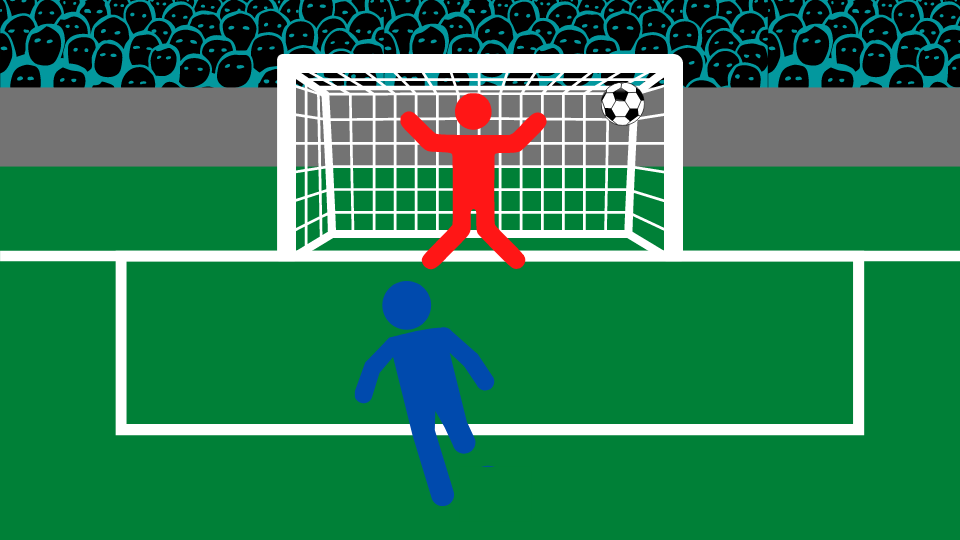
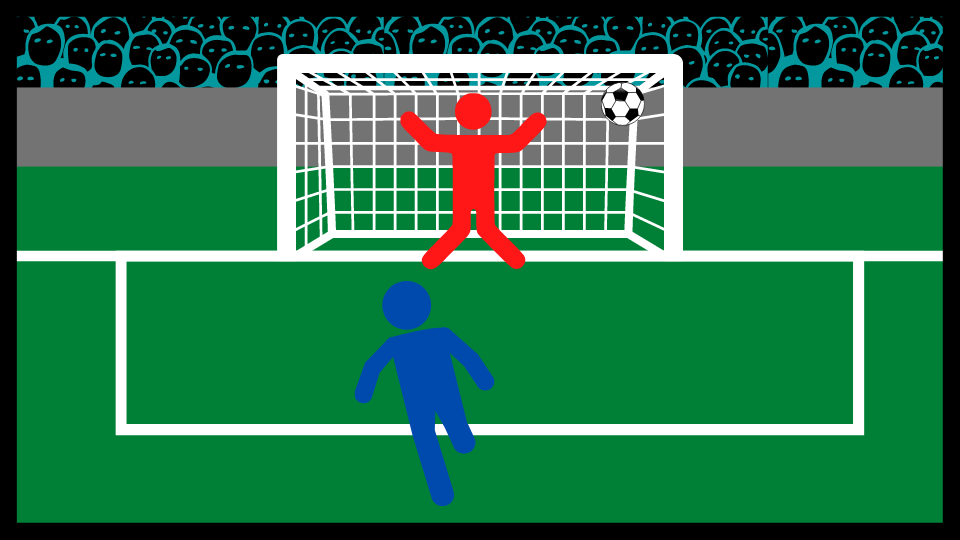
Replace images with new ones containing borders

Changed region(s): [[0.0, 0.0, 1.0, 1.0]]

diff --git a/assets/scripts/script.js b/assets/scripts/script.js
@@ -77,8 +77,8 @@ function checkOutcome() {
             outcome = `CPU kicked ${cpuDirection} and You dived ${userDirection}. GOAL!`;
             cpuScore.innerHTML = cpuGoals;
         }
-    }  
-    changeKicker();
+    } 
+    setTimeout(changeKicker, 1500);
     return outcome;
 
 }
@@ -90,11 +90,11 @@ function changeKicker() {
     if (kicker === userKicker){
         kicker = cpuKicker;
         gameState.innerHTML = "It's your turn to save"
-       // document.getElementById("game-image").src="assets/images/cpu-ready.png";
+        gameImg.src="assets/images/cpu-ready.png";
     }else if (kicker === cpuKicker){
         kicker = userKicker;
         gameState.innerHTML = "It's your turn to kick"
-       // document.getElementById("game-image").src="assets/images/user-ready.png";
+        gameImg.src="assets/images/user-ready.png";
     }
 }
 
